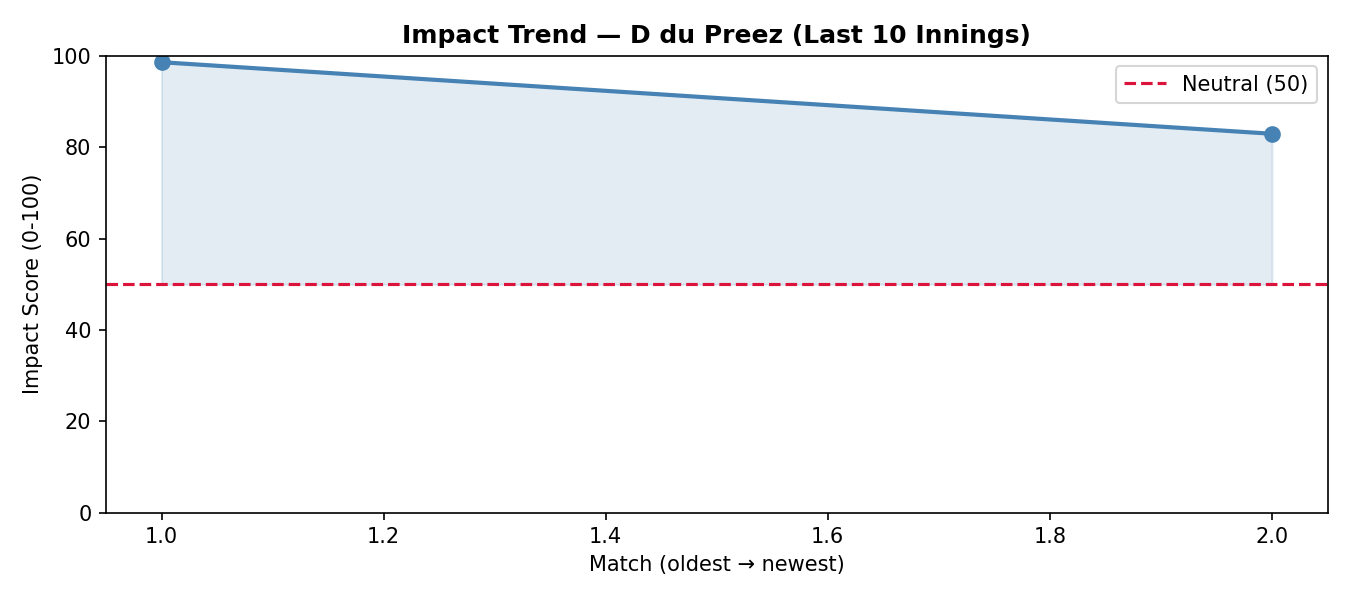
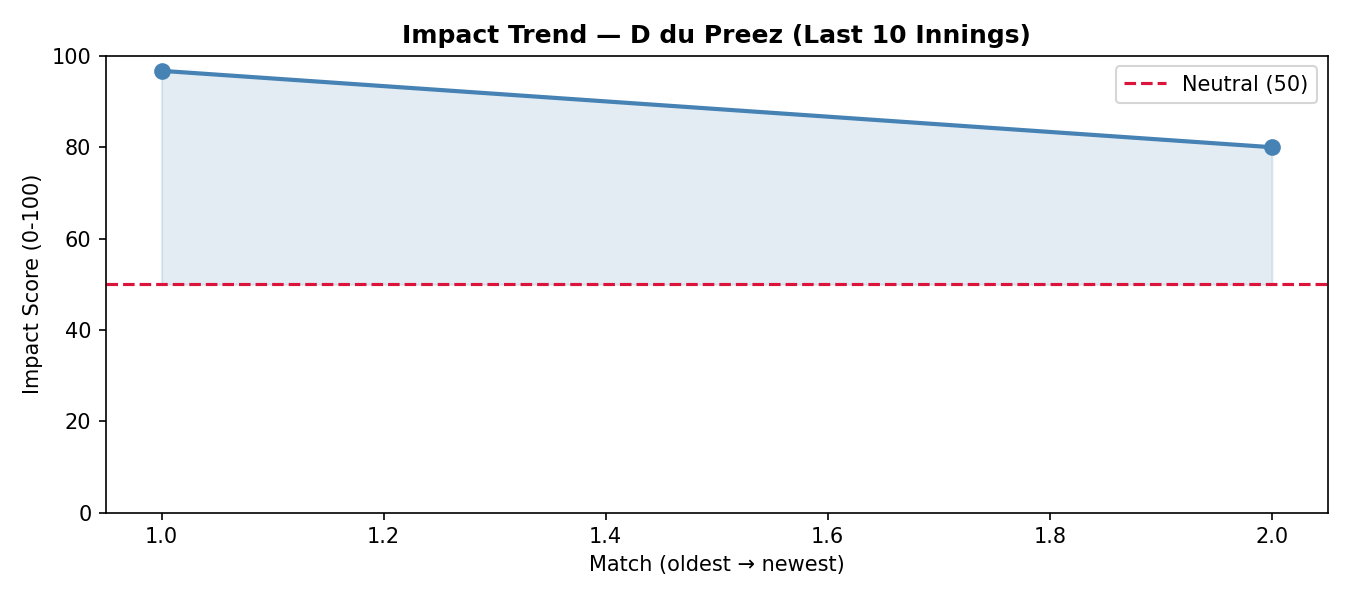
final change

Changed region(s): [[0.0933, 0.09, 0.9644, 0.27]]

diff --git a/frontend/src/components/StatsBreakdown.jsx b/frontend/src/components/StatsBreakdown.jsx
@@ -1,28 +1,36 @@
 import React from 'react';
 import { Target, Zap, Shield, TrendingUp } from 'lucide-react';
 
-const StatsBreakdown = ({ performance, context, pressure }) => {
-  // ML clipping ranges (from impact_model.py):
-  //   Performance (perf_bat + perf_bowl): raw scores, typical max ~10
-  //   Context:   np.clip(Context,   0.8, 1.4)  → range 0.8–1.4
-  //   Situation: np.clip(Situation, 1.0, 1.5)  → range 1.0–1.5
-  const contextPct = Math.min(100, (((parseFloat(context) - 0.8) / (1.4 - 0.8)) * 100));
-  const pressurePct = Math.min(100, (((parseFloat(pressure) - 1.0) / (1.5 - 1.0)) * 100));
-  const perfPct = Math.min(100, ((parseFloat(performance) / 10) * 100));
+const StatsBreakdown = ({ battingImpact, bowlingImpact, context, pressure }) => {
+  // ML clipping ranges:
+  //   Performance max ~10, Context: 0.9–1.5, Situation: 1.0–1.5
+  // We approximate Batting & Bowling impact max to 2.5 for visualization 
+  const contextPct = Math.max(0, Math.min(100, (((parseFloat(context) - 0.9) / (1.5 - 0.9)) * 100)));
+  const pressurePct = Math.max(0, Math.min(100, (((parseFloat(pressure) - 1.0) / (1.5 - 1.0)) * 100)));
+  const batPct = Math.max(0, Math.min(100, ((parseFloat(battingImpact) / 2.5) * 100)));
+  const bowlPct = Math.max(0, Math.min(100, ((parseFloat(bowlingImpact) / 2.5) * 100)));
 
   const stats = [
     {
-      icon: <Shield color="#38bdf8" size={22} />,
-      label: 'Performance Impact',
-      desc: 'Batting & Bowling output (0–10)',
-      value: parseFloat(performance),
-      barPct: perfPct,
-      color: '56, 189, 248',
+      icon: <Shield color="#0ea5e9" size={22} />,
+      label: 'Batting Impact',
+      desc: 'Batting contribution adjusted for match context',
+      value: parseFloat(battingImpact),
+      barPct: batPct,
+      color: '14, 165, 233', // cyan/blue
+    },
+    {
+      icon: <Shield color="#8b5cf6" size={22} />,
+      label: 'Bowling Impact',
+      desc: 'Bowling contribution adjusted for match context',
+      value: parseFloat(bowlingImpact),
+      barPct: bowlPct,
+      color: '139, 92, 246', // violet/purple
     },
     {
       icon: <Target color="#10b981" size={22} />,
-      label: 'Match Context',
-      desc: 'Situation & phase modifier (0.8–1.4)',
+      label: 'Context Multiplier',
+      desc: 'Match difficulty and opposition strength modifier',
       value: parseFloat(context),
       barPct: contextPct,
       color: '16, 185, 129',
@@ -30,7 +38,7 @@ const StatsBreakdown = ({ performance, context, pressure }) => {
     {
       icon: <Zap color="#f59e0b" size={22} />,
       label: 'Pressure Factor',
-      desc: 'Under-fire multiplier (1.0–1.5)',
+      desc: 'High-pressure match multiplier (1.0–1.5)',
       value: parseFloat(pressure),
       barPct: pressurePct,
       color: '245, 158, 11',

diff --git a/frontend/src/components/ImpactMeter.jsx b/frontend/src/components/ImpactMeter.jsx
@@ -1,6 +1,6 @@
 import React from 'react';
 import GaugeChart from 'react-gauge-chart';
-import { Activity, TrendingUp, TrendingDown, Minus } from 'lucide-react';
+import { Activity, TrendingUp, TrendingDown, Minus, Info } from 'lucide-react';
 
 const ImpactMeter = ({ score, previousScore }) => {
   const numScore = parseFloat(score) || 0;
@@ -23,13 +23,20 @@ const ImpactMeter = ({ score, previousScore }) => {
   const TrendIcon = diff > 0 ? TrendingUp : diff < 0 ? TrendingDown : Minus;
   const trendColor = diff > 0 ? 'var(--accent-green)' : diff < 0 ? 'var(--accent-red)' : 'var(--text-muted)';
 
+  const tooltipText = "Impact Score Formula\n\nImpact =\n((Batting Performance × Batting Context)\n+\n(Bowling Performance × Bowling Context))\n× Pressure Factor\n\nThe result is then normalized to a 0–100 scale using logistic scaling.";
+
   return (
     <div className="glass-panel animate-fade-in delay-200" style={{ display: 'flex', flexDirection: 'column', alignItems: 'center', padding: '30px', height: '100%' }}>
       <div style={{ alignSelf: 'stretch', display: 'flex', justifyContent: 'space-between', alignItems: 'flex-start', marginBottom: '8px' }}>
-        <h3 className="section-header" style={{ marginBottom: 0 }}>
-          <Activity size={22} style={{ color: 'var(--primary)' }} />
-          Impact Score
-        </h3>
+        <div style={{ display: 'flex', alignItems: 'center', gap: '8px' }}>
+          <h3 className="section-header" style={{ marginBottom: 0 }}>
+            <Activity size={22} style={{ color: 'var(--primary)' }} />
+            Impact Score
+          </h3>
+          <div title={tooltipText} style={{ cursor: 'help', color: 'var(--text-muted)' }}>
+            <Info size={16} />
+          </div>
+        </div>
         {/* Tier Badge */}
         <span style={{ padding: '4px 12px', borderRadius: '20px', fontSize: '0.7rem', fontWeight: 800, letterSpacing: '1px', background: `rgba(${tier.color === '#fbbf24' ? '251,191,36' : tier.color === '#10b981' ? '16,185,129' : tier.color === '#38bdf8' ? '56,189,248' : '248,113,113'}, 0.15)`, color: tier.color, border: `1px solid ${tier.color}` }}>
           {tier.label}

diff --git a/frontend/src/pages/PlayerDashboard.jsx b/frontend/src/pages/PlayerDashboard.jsx
@@ -10,8 +10,6 @@ import InningsTable from '../components/InningsTable';
 import { getPlayerImpact } from '../services/api';
 import { ArrowLeft, RefreshCw, Award } from 'lucide-react';
 
-
-
 const PlayerDashboard = () => {
   const { playerName } = useParams();
   const navigate = useNavigate();
@@ -48,6 +46,9 @@ const PlayerDashboard = () => {
   const avgBat = parseFloat(summary['Avg Bat Perf'] || 0).toFixed(2);
   const avgContext = parseFloat(summary['Avg Context'] || 1.0).toFixed(2);
   const avgSituation = parseFloat(summary['Avg Situation'] || 1.0).toFixed(2);
+
+  const avgBatImpact = (data?.trend || []).reduce((sum, match) => sum + ((match.perf_bat || 0) * (match.BatContext || 1.0)), 0) / Math.max(1, data?.trend?.length || 1);
+  const avgBowlImpact = (data?.trend || []).reduce((sum, match) => sum + ((match.perf_bowl || 0) * (match.BowlContext || 1.0)), 0) / Math.max(1, data?.trend?.length || 1);
 
   return (
     <div style={{ minHeight: '100vh', display: 'flex', flexDirection: 'column' }}>
@@ -127,7 +128,8 @@ const PlayerDashboard = () => {
               />
               <ImpactMeter score={parseFloat(rollingScore)} />
               <StatsBreakdown
-                performance={avgBat}
+                battingImpact={avgBatImpact}
+                bowlingImpact={avgBowlImpact}
                 context={avgContext}
                 pressure={avgSituation}
               />

diff --git a/ML/src/impact_model.py b/ML/src/impact_model.py
@@ -61,12 +61,13 @@ def calculate_raw_and_final_impact(bat_df, bowl_df, match_context):
 
     if match_context is None or match_context.empty:
         # FIX 2: no context data → neutral defaults
-        logging.warning("match_context is empty. Using neutral Context=1.0, Situation=1.0.")
-        total_df['Context']   = 1.0
+        logging.warning("match_context is empty. Using neutral Contexts, Situation=1.0.")
+        total_df['BatContext'] = 1.0
+        total_df['BowlContext'] = 1.0
         total_df['Situation'] = 1.0
     else:
         match_level_cols = [
-            'match_id', 'avg_pressure', 'Context', 'Situation',
+            'match_id', 'avg_pressure', 'Context', 'BatContext', 'BowlContext', 'Situation',
             'opponent_strength', 'match_importance',
             'season', 'start_date', 'venue',
             'batting_first', 'bowling_first',
@@ -87,6 +88,16 @@ def calculate_raw_and_final_impact(bat_df, bowl_df, match_context):
 
     # ── Step 4: NaN guards on Context and Situation ───────────────────────────
     # FIX 4 & 5: ensure multipliers always exist and are not NaN
+    if 'BatContext' not in total_df.columns:
+        total_df['BatContext'] = 1.0
+    else:
+        total_df['BatContext'] = total_df['BatContext'].fillna(1.0)
+
+    if 'BowlContext' not in total_df.columns:
+        total_df['BowlContext'] = 1.0
+    else:
+        total_df['BowlContext'] = total_df['BowlContext'].fillna(1.0)
+
     if 'Context' not in total_df.columns:
         total_df['Context'] = 1.0
     else:
@@ -98,15 +109,16 @@ def calculate_raw_and_final_impact(bat_df, bowl_df, match_context):
         total_df['Situation'] = total_df['Situation'].fillna(1.0)
 
     # Clip to valid ranges before multiplication
-    total_df['Context']   = np.clip(total_df['Context'],   0.8, 1.4)
-    total_df['Situation'] = np.clip(total_df['Situation'], 1.0, 1.5)
+    total_df['BatContext']  = np.clip(total_df['BatContext'],  0.9, 1.5)
+    total_df['BowlContext'] = np.clip(total_df['BowlContext'], 0.9, 1.5)
+    total_df['Context']     = np.clip(total_df['Context'],     0.8, 1.4)
+    total_df['Situation']   = np.clip(total_df['Situation'],   1.0, 1.5)
 
     # ── Step 5: RawImpact ─────────────────────────────────────────────────────
     total_df['RawImpact'] = (
-        total_df['Total_Performance']
-        * total_df['Context']
-        * total_df['Situation']
-    )
+        (total_df['perf_bat'] * total_df['BatContext'])
+        + (total_df['perf_bowl'] * total_df['BowlContext'])
+    ) * total_df['Situation']
     # FIX 6: guard any remaining NaN in RawImpact
     total_df['RawImpact'] = total_df['RawImpact'].fillna(0)
 

diff --git a/ML/src/context_situation.py b/ML/src/context_situation.py
@@ -57,10 +57,17 @@ def compute_context_and_situation(df):
     # ── 2. PER MATCH PRESSURE ─────────────────────────────────────────────────
     match_ctx = (
         df.groupby("match_id", as_index=False)
-        .agg(avg_pressure=("pressure_index", "mean"))
+        .agg(
+            avg_pressure=("pressure_index", "mean"),
+            avg_req_rr=("required_rr", "mean"),
+            avg_wickets_rem=("wickets_remaining", "mean")
+        )
     )
     # FIX 4: guard NaN avg_pressure (all-NaN group)
     match_ctx["avg_pressure"] = match_ctx["avg_pressure"].fillna(0.0)
+    match_ctx["avg_req_rr"] = match_ctx["avg_req_rr"].fillna(0.0)
+    match_ctx["avg_wickets_rem"] = match_ctx["avg_wickets_rem"].fillna(10.0)
+    match_ctx["WicketsLost"] = 10 - match_ctx["avg_wickets_rem"]
 
     # ── 3. OPPOSITION STRENGTH ────────────────────────────────────────────────
     if "total_runs" in df.columns and "bowler" in df.columns:
@@ -110,6 +117,13 @@ def compute_context_and_situation(df):
         (match_ctx["avg_pressure"] / 8.0 + 0.8) * match_ctx["opponent_strength"],
         0.8, 1.4,
     )
+    
+    # NEW: BatContext and BowlContext
+    match_ctx["BatContext"] = 1 + 0.20 * (match_ctx["avg_req_rr"] / 10) + 0.10 * (match_ctx["WicketsLost"] / 10) + 0.15 * (match_ctx["avg_pressure"] / 10)
+    match_ctx["BatContext"] = np.clip(match_ctx["BatContext"], 0.9, 1.5)
+    
+    match_ctx["BowlContext"] = 1 + 0.15 * (match_ctx["avg_req_rr"] / 10) + 0.20 * (match_ctx["avg_pressure"] / 10)
+    match_ctx["BowlContext"] = np.clip(match_ctx["BowlContext"], 0.9, 1.5)
 
     # ── 5. SITUATION (match importance × pressure tier) ───────────────────────
     # FIX 7: match_importance from match_number (later = higher stakes)

diff --git a/ML/api_server.py b/ML/api_server.py
@@ -132,7 +132,7 @@ def leaderboards(season: str = "All Time"):
         min_matches = 30 if season == "All Time" else 3
         lb = lb[lb["Matches"] >= min_matches]
         
-        lb = lb.sort_values("Avg_IM", ascending=False).head(50)
+        lb = lb.sort_values("Avg_IM", ascending=False)
         return clean_data(lb)
 
     return {
@@ -194,7 +194,7 @@ def player_profile(player_name: str, window: str = "All Time", season: str = "Al
             "Elite Innings": int((player_df["Impact_Score"] >= 85).sum()),
             "Avg Bat Perf": round(float(player_df["perf_bat"].mean()), 2),
             "Avg Bowl Perf": round(float(player_df["perf_bowl"].mean()), 2),
-            "Avg Context": round(float(player_df.get("Context", pd.Series([1.0])).mean()), 2),
+            "Avg Context": round(float(player_df[["BatContext", "BowlContext"]].mean(axis=1).mean()), 2),
             "Avg Situation": round(float(player_df.get("Situation", pd.Series([1.0])).mean()), 2)
         },
         "trend": clean_data(player_df),
